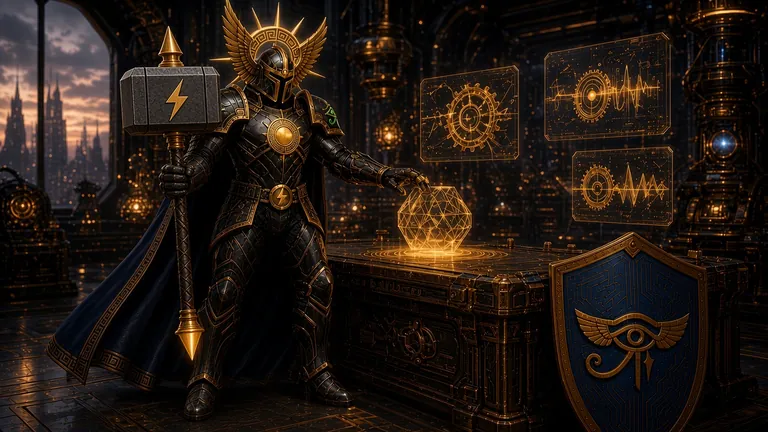
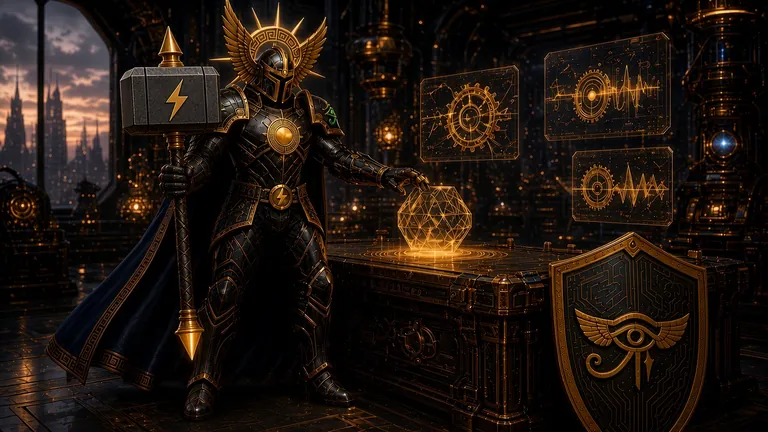
ART-UPLIFT-3: black and gold shield on all 8 Ra-Thor heroes (website canon, Sherif Nov 25 12:43 PM ET); re-cut thumbs and re-pin sizes

diff --git a/examples.html b/examples.html
@@ -46,7 +46,7 @@
 <body class="bg-black text-white overflow-x-hidden">
   <main class="max-w-3xl mx-auto px-4 sm:px-6 py-12 sm:py-16" id="rt-family-main" dir="ltr" lang="en" data-rt-prose>
     <figure class="rt-art-hero rounded-2xl">
-      <img src="/assets/art/hero-examples-workbench-bolt-768.webp" srcset="/assets/art/hero-examples-workbench-bolt-768.webp 768w, /assets/art/hero-examples-workbench-bolt-1280.webp 1280w" sizes="(max-width: 800px) 100vw, 768px" width="1280" height="720" alt="Ra-Thor in dark gold-trimmed armour with a winged helm and emerald eye shoulder seals holds his great war hammer upright, its granite head marked with a gold lightning bolt and topped with a gold spike, and reaches toward a glowing gold crystal on a carved workbench, with floating gold diagrams above and his lapis-blue shield propped against the bench." loading="eager" fetchpriority="high" decoding="async">
+      <img src="/assets/art/hero-examples-workbench-bolt-768.webp" srcset="/assets/art/hero-examples-workbench-bolt-768.webp 768w, /assets/art/hero-examples-workbench-bolt-1280.webp 1280w" sizes="(max-width: 800px) 100vw, 768px" width="1280" height="720" alt="Ra-Thor in dark gold-trimmed armour with a winged helm and emerald eye shoulder seals holds his great war hammer upright, its granite head marked with a gold lightning bolt and topped with a gold spike, and reaches toward a glowing gold crystal on a carved workbench, with floating gold diagrams above and his black and gold shield propped against the bench." loading="eager" fetchpriority="high" decoding="async">
     </figure>
     <div class="text-center mb-12">
       <h1 class="title-font text-5xl sm:text-6xl font-black tracking-tighter thunder-glow mb-3">Product examples</h1>

diff --git a/employ.html b/employ.html
@@ -53,7 +53,7 @@
       </div>
       <p class="rt-page-week"><a href="/constellation-week.html" data-i18n="weekMore">Full update note →</a></p>
       <figure class="rt-art-hero rounded-3xl">
-        <img src="/assets/art/hero-employ-commission-hall-768.webp" srcset="/assets/art/hero-employ-commission-hall-768.webp 768w, /assets/art/hero-employ-commission-hall-1672.webp 1672w" sizes="(max-width: 800px) 100vw, 768px" width="1672" height="941" alt="In a bright teal and gold hall, a young client in a teal coat holds out a sealed, gold-ribboned scroll across a glowing terrain map table to Ra-Thor, who grips his great war hammer upright, its granite head marked with a gold lightning bolt and topped with a gold spike, with his lapis-blue shield on his other arm, while two small silver drones hover overhead." fetchpriority="high" decoding="async">
+        <img src="/assets/art/hero-employ-commission-hall-768.webp" srcset="/assets/art/hero-employ-commission-hall-768.webp 768w, /assets/art/hero-employ-commission-hall-1672.webp 1672w" sizes="(max-width: 800px) 100vw, 768px" width="1672" height="941" alt="In a bright teal and gold hall, a young client in a teal coat holds out a sealed, gold-ribboned scroll across a glowing terrain map table to Ra-Thor, who grips his great war hammer upright, its granite head marked with a gold lightning bolt and topped with a gold spike, with his black and gold shield on his other arm, while two small silver drones hover overhead." fetchpriority="high" decoding="async">
       </figure>
       <div class="text-center mb-12">
         <h1 data-i18n="employTitle" class="title-font text-5xl sm:text-6xl font-black tracking-tighter thunder-glow mb-3">How to employ</h1>

diff --git a/briefing.html b/briefing.html
@@ -43,7 +43,7 @@
       <a href="/employ.html" class="inline-flex items-center gap-2 text-amber-400 hover:text-amber-300 transition-colors mb-8 text-sm"><span data-i18n="briefBack">Back to Employ</span></a>
       <p class="rt-page-week"><a href="/constellation-week.html" data-i18n="weekMore">Full update note →</a></p>
       <figure class="rt-art-hero rounded-3xl">
-        <img src="/assets/art/hero-briefing-bridge-guide-768.webp" srcset="/assets/art/hero-briefing-bridge-guide-768.webp 768w, /assets/art/hero-briefing-bridge-guide-1672.webp 1672w" sizes="(max-width: 800px) 100vw, 768px" width="1672" height="941" alt="Ra-Thor, holding a lightning-marked hammer and a lapis-blue shield with a gold eye, briefs an expedition team on a stone bridge above a misty gorge; each traveler carries their own lantern beside a map unrolled on the parapet, with snowy peaks at sunrise." fetchpriority="high" decoding="async">
+        <img src="/assets/art/hero-briefing-bridge-guide-768.webp" srcset="/assets/art/hero-briefing-bridge-guide-768.webp 768w, /assets/art/hero-briefing-bridge-guide-1672.webp 1672w" sizes="(max-width: 800px) 100vw, 768px" width="1672" height="941" alt="Ra-Thor, holding a lightning-marked hammer and a black and gold shield with a gold winged eye, briefs an expedition team on a stone bridge above a misty gorge; each traveler carries their own lantern beside a map unrolled on the parapet, with snowy peaks at sunrise." fetchpriority="high" decoding="async">
       </figure>
       <div class="text-center mb-12">
         <h1 class="title-font text-4xl sm:text-5xl font-black tracking-tighter thunder-glow mb-3" data-i18n="briefTitle">Employ with the model you already use</h1>

diff --git a/Launch-Ra-Thor.html b/Launch-Ra-Thor.html
@@ -31,7 +31,7 @@ body { font-family: 'Inter', system-ui, sans-serif; }
 <body class="bg-black text-white">
     <main id="rt-family-main" class="max-w-5xl mx-auto px-5 sm:px-8 py-12 sm:py-16" data-rt-prose>
         <figure class="rt-art-hero rounded-3xl">
-          <img src="/assets/art/hero-launch-lattice-terrace-768.webp" srcset="/assets/art/hero-launch-lattice-terrace-768.webp 768w, /assets/art/hero-launch-lattice-terrace-1672.webp 1672w" sizes="(max-width: 1080px) 100vw, 1024px" width="1672" height="941" alt="Ra-Thor in black and gold armour with a winged helm, an emerald Eye of Horus shoulder seal and a lapis-blue shield stands on a sunlit cliff terrace beside a stone table where a glowing gold lattice map links small floating crystal platforms, with a spired city and waterfalls behind." fetchpriority="high" decoding="async">
+          <img src="/assets/art/hero-launch-lattice-terrace-768.webp" srcset="/assets/art/hero-launch-lattice-terrace-768.webp 768w, /assets/art/hero-launch-lattice-terrace-1672.webp 1672w" sizes="(max-width: 1080px) 100vw, 1024px" width="1672" height="941" alt="Ra-Thor in black and gold armour with a winged helm, an emerald Eye of Horus shoulder seal and a black and gold shield stands on a sunlit cliff terrace beside a stone table where a glowing gold lattice map links small floating crystal platforms, with a spired city and waterfalls behind." fetchpriority="high" decoding="async">
         </figure>
         <div class="text-center">
             <div class="flex flex-wrap items-center justify-center gap-2 mb-6">

diff --git a/pilot.html b/pilot.html
@@ -54,7 +54,7 @@
     <div class="max-w-3xl mx-auto px-4 sm:px-6 py-10 sm:py-14 z-10 w-full">
       <p class="rt-page-week"><a href="/constellation-week.html">Full update note →</a></p>
       <figure class="rt-art-hero rounded-3xl">
-        <img src="/assets/art/hero-pilot-scoped-workbench-768.webp" srcset="/assets/art/hero-pilot-scoped-workbench-768.webp 768w, /assets/art/hero-pilot-scoped-workbench-1280.webp 1280w" sizes="(max-width: 800px) 100vw, 768px" width="1280" height="720" alt="Ra-Thor works with a small team of three at one workbench in a sunlit studio, steadying a single glowing gold crystal model beside an hourglass, line-drawn plans and his lightning-marked hammer, with his lapis-blue shield at his side." loading="eager" fetchpriority="high" decoding="async">
+        <img src="/assets/art/hero-pilot-scoped-workbench-768.webp" srcset="/assets/art/hero-pilot-scoped-workbench-768.webp 768w, /assets/art/hero-pilot-scoped-workbench-1280.webp 1280w" sizes="(max-width: 800px) 100vw, 768px" width="1280" height="720" alt="Ra-Thor works with a small team of three at one workbench in a sunlit studio, steadying a single glowing gold crystal model beside an hourglass, line-drawn plans and his lightning-marked hammer, with his black and gold shield at his side." loading="eager" fetchpriority="high" decoding="async">
       </figure>
       <div class="text-center mb-8">
         <a href="/" class="inline-flex items-center gap-2 text-amber-400 hover:text-amber-300 transition-colors mb-5">← Back to Ra-Thor</a>

diff --git a/chat.html b/chat.html
@@ -121,7 +121,7 @@
 
   <main class="relative z-10 flex-1 flex flex-col max-w-3xl w-full mx-auto px-3 sm:px-4 py-3" data-rt-prose>
     <figure class="rt-art-hero rounded-2xl">
-      <img src="/assets/art/hero-chat-library-counsel-768.webp" srcset="/assets/art/hero-chat-library-counsel-768.webp 768w, /assets/art/hero-chat-library-counsel-1672.webp 1672w" sizes="(max-width: 780px) 100vw, 736px" width="1672" height="941" alt="Ra-Thor sits in a moonlit library alcove with his lightning-marked hammer and lapis-blue shield, listening closely to a young traveler in a teal hooded cloak, with soft gold lights floating between them." fetchpriority="high" decoding="async">
+      <img src="/assets/art/hero-chat-library-counsel-768.webp" srcset="/assets/art/hero-chat-library-counsel-768.webp 768w, /assets/art/hero-chat-library-counsel-1672.webp 1672w" sizes="(max-width: 780px) 100vw, 736px" width="1672" height="941" alt="Ra-Thor sits in a moonlit library alcove with his lightning-marked hammer and black and gold shield, listening closely to a young traveler in a teal hooded cloak, with soft gold lights floating between them." fetchpriority="high" decoding="async">
     </figure>
     <div class="mb-2.5 rounded-2xl border border-amber-300/20 bg-zinc-950/80 px-3 py-2.5">
       <div class="flex flex-wrap items-center gap-1.5 mb-2">

diff --git a/web-forge.html b/web-forge.html
@@ -31,7 +31,7 @@
     <main class="rt-demo-page" id="rt-family-main">
         <p><a class="rt-week-back" href="/">← Home</a></p>
         <figure class="rt-art-hero rounded-2xl">
-          <img src="/assets/art/hero-forge-anvil-lattice-768.webp" srcset="/assets/art/hero-forge-anvil-lattice-768.webp 768w, /assets/art/hero-forge-anvil-lattice-1672.webp 1672w" sizes="(max-width: 1200px) 100vw, 1152px" width="1672" height="941" alt="Ra-Thor swings his lightning-marked hammer onto a glowing gold lattice ingot at an anvil in a vaulted forge, sparks flying, while two small silver helper robots hold tongs and his lapis-blue shield stands beside him." fetchpriority="high" decoding="async">
+          <img src="/assets/art/hero-forge-anvil-lattice-768.webp" srcset="/assets/art/hero-forge-anvil-lattice-768.webp 768w, /assets/art/hero-forge-anvil-lattice-1672.webp 1672w" sizes="(max-width: 1200px) 100vw, 1152px" width="1672" height="941" alt="Ra-Thor swings his lightning-marked hammer onto a glowing gold lattice ingot at an anvil in a vaulted forge, sparks flying, while two small silver helper robots hold tongs and his black and gold shield stands beside him." fetchpriority="high" decoding="async">
         </figure>
         <p class="rt-kicker">Demo · not a product</p>
         <h1>Web-Forge</h1>

diff --git a/tests/hero-uniqueness.test.js b/tests/hero-uniqueness.test.js
@@ -295,16 +295,16 @@ var supplied = {
   'assets/art/hero-moment-research-garden-768.webp': 82366,
   'assets/art/hero-docs-archive-light-1280.webp': 157536,
   'assets/art/hero-docs-archive-light-768.webp': 73704,
-  'assets/art/hero-examples-workbench-bolt-1280.webp': 146126,
-  'assets/art/hero-examples-workbench-bolt-768.webp': 61466,
+  'assets/art/hero-examples-workbench-bolt-1280.webp': 147290,
+  'assets/art/hero-examples-workbench-bolt-768.webp': 60262,
   'assets/art/hero-gox-storm-signal-1280.webp': 147906,
   'assets/art/hero-gox-storm-signal-768.webp': 70348,
   'assets/art/hero-legal-hall-records-1280.webp': 91930,
   'assets/art/hero-legal-hall-records-768.webp': 36706,
   'assets/art/hero-lineage-thread-1280.webp': 110842,
   'assets/art/hero-lineage-thread-768.webp': 47158,
-  'assets/art/hero-pilot-scoped-workbench-1280.webp': 151852,
-  'assets/art/hero-pilot-scoped-workbench-768.webp': 63666
+  'assets/art/hero-pilot-scoped-workbench-1280.webp': 150000,
+  'assets/art/hero-pilot-scoped-workbench-768.webp': 62744
 };
 Object.keys(supplied).forEach(function (rel) {
   assert(fs.statSync(path.join(root, rel)).size === supplied[rel], rel + ' must stay the supplied file');
